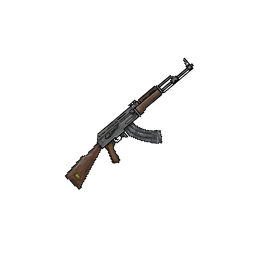
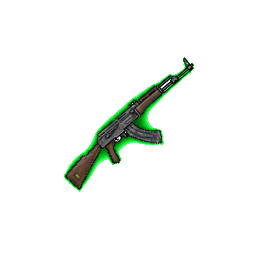
Edited rifle to make it more visible on the map. Add bullet sprite, working on getting bullets correctly implemented. Currently full of bugs, enjoying fixing this tomorrow, Beej.

Changed region(s): [[0.25, 0.2188, 0.7812, 0.75]]

diff --git a/Hotline_Scunthorpe/src/main.cpp b/Hotline_Scunthorpe/src/main.cpp
@@ -23,6 +23,8 @@ Texture enemyTurretATexture;
 Sprite enemyTurretASprite;
 Texture rifleTexture;
 Sprite rifleSprite;
+Texture bulletTexture;
+Sprite bulletSprite;
 
 RectangleShape startButton;
 RectangleShape optionsButton;
@@ -35,6 +37,10 @@ RectangleShape resFullscreenButton;
 RectangleShape optionsBackButton;
 RectangleShape rifleLocation;
 RectangleShape level1Exit;
+
+RectangleShape test;
+
+bool isShooting = false;
 
 // The different states of the game
 enum class GameStates { START, MENU, OPTIONS, LEVEL_1, LEVEL_2 };
@@ -77,8 +83,46 @@ void Load() {
 	if (!rifleTexture.loadFromFile("res/img/rifle.png")) {
 		throw std::invalid_argument("Loading error!");
 	}
+	if (!bulletTexture.loadFromFile("res/img/bullet.png")) {
+		throw std::invalid_argument("Loading error!");
+	}
 
 }
+
+class Bullet {
+public:
+	Bullet(Vector2f size) {
+		bullet.setSize(size);
+	}
+
+	void setTex() {
+		Texture bulletTexture;
+		if (!bulletTexture.loadFromFile("res/img/bullet.png")) {
+			throw std::invalid_argument("Loading error!");
+		}
+		bullet.setTexture(&bulletTexture);
+	}
+	void speed(Vector2f speed) {
+		bullet.move(speed);
+		std::cout << "\t speed x = " << speed.x << "\t speed y = " << speed.y;
+	}
+	void draw(RenderWindow &window) {
+		window.draw(bullet);
+	}
+	void setPos(Vector2f newPos) {
+		bullet.setPosition(newPos);
+	}
+	void setRot(float ang) {
+		bullet.setRotation(ang);
+	}
+	float getRot() {
+		return bullet.getRotation();
+	}
+private:
+	RectangleShape bullet;
+};
+
+std::vector<Bullet> bulletList;
 
 // Rescale all sprites when window resolution is changed
 void setStart() {
@@ -150,6 +194,10 @@ void setLevel1() {
 	rifleLocation.setPosition(0, 960);
 	rifleLocation.setFillColor(Color::Green);
 
+	//bulletSprite.setTexture(bulletTexture);
+	//bulletSprite.setPosition(-256, -256);
+	//bulletSprite.setOrigin((bulletTexture.getSize().x / 2), (bulletTexture.getSize().y / 2));
+
 	level1Exit.setSize(Vector2f(10, 240));
 	level1Exit.setPosition(1910, 240);
 }
@@ -167,6 +215,20 @@ void Update(Vector2f &mousePos, RenderWindow &window) {
   static sf::Clock clock;
   float dt = clock.restart().asSeconds();
   Vector2f move;
+	Vector2f playerPos = playerSprite.getPosition();
+	Vector2f turretPos = enemyTurretASprite.getPosition();
+	if (isShooting == true) {
+		Bullet newBullet(Vector2f(132, 9));
+		newBullet.setTex();
+		newBullet.setPos(playerPos);
+		newBullet.setRot(playerSprite.getRotation());
+		bulletList.push_back(newBullet);
+		isShooting = false;
+	}
+	for (int i = 0; i < bulletList.size(); i++) {
+		bulletList[i].draw(window);
+		bulletList[i].speed(Vector2f(2000 * dt * cos(bulletList[i].getRot() * (M_PI / 180)), 2000 * dt * sin(bulletList[i].getRot() * (M_PI / 180))));
+	}
   if (Keyboard::isKeyPressed(Keyboard::Left) || Keyboard::isKeyPressed(Keyboard::A)) {
     move.x--;
   }
@@ -180,11 +242,17 @@ void Update(Vector2f &mousePos, RenderWindow &window) {
 		move.y++;
 	}
 
-	Vector2f playerPos = playerSprite.getPosition();
-	Vector2f turretPos = enemyTurretASprite.getPosition();
 	float ang = atan2((playerPos.y - mousePos.y), (playerPos.x - mousePos.x)) * (180 / M_PI);
 	playerSprite.setRotation(ang+180);
   playerSprite.move(move*300.f*dt);
+
+	if (Mouse::isButtonPressed(Mouse::Left)) {
+		//bulletSprite.setPosition(playerPos.x, playerPos.y);
+		//bulletSprite.setRotation(playerSprite.getRotation());
+		isShooting = true;
+	}
+
+	bulletSprite.move(2000 * dt * cos(bulletSprite.getRotation()*(M_PI / 180)), 2000 * dt * sin(bulletSprite.getRotation()*(M_PI / 180)));
 
 	if (rifleLocation.getGlobalBounds().contains(playerPos)) {
 		playerSprite.setTexture(playerRifleTexture);
@@ -205,7 +273,7 @@ void Update(Vector2f &mousePos, RenderWindow &window) {
 }
 
 // Methods to render desired game states
-void RenderLevel1(RenderWindow &window) { window.draw(level1BackgroundSprite), window.draw(rifleSprite), window.draw(playerSprite), window.draw(enemyTurretASprite), window.draw(cursorSprite); }
+void RenderLevel1(RenderWindow &window) { window.draw(level1BackgroundSprite), window.draw(rifleSprite), /*window.draw(bulletSprite),*/ window.draw(playerSprite), window.draw(enemyTurretASprite), window.draw(cursorSprite); }
 void RenderLevel2(RenderWindow &window) { window.draw(level2BackgroundSprite), window.draw(playerSprite), window.draw(enemyTurretASprite), window.draw(cursorSprite); }
 void RenderStart(RenderWindow &window) { window.draw(startScreenSprite), window.draw(cursorSprite)/*, window.draw(startButton), window.draw(optionsButton), window.draw(quitButton)*/; }
 void RenderOptions(RenderWindow &window) { window.draw(optionsScreenSprite), window.draw(cursorSprite)/*, window.draw(res1080Button), window.draw(res900Button), window.draw(res720Button), window.draw(resWindowedButton), window.draw(resFullscreenButton), window.draw(optionsBackButton)*/; }
@@ -229,6 +297,9 @@ int main() {
     std::cerr << "Load error" << std::endl;
     return 1;
   }
+
+	/*std::vector<Bullet> bulletList;
+	bool isShooting = false;*/
 
 	// Game running while loop
   while (window.isOpen()) {
@@ -333,8 +404,18 @@ int main() {
 				window.clear();
 				mousePos = window.mapPixelToCoords(Mouse::getPosition(window));
 				playerPos = playerSprite.getPosition();
-				Update(Vector2f(mousePos.x, mousePos.y), window);
+				/*if (isShooting == true) {
+					Bullet newBullet(Vector2f(132, 9), bulletTexture);
+					newBullet.setPos(playerPos);
+					bulletList.push_back(newBullet);
+					isShooting = false;
+				}
+				for (int i = 0; i < bulletList.size(); i++) {
+					bulletList[i].draw(window);
+					bulletList[i].speed(1);
+				}*/
 				RenderLevel1(window);
+				Update(Vector2f(mousePos.x, mousePos.y), window);
 				window.display();
 				Event level1Event;
 				while (window.pollEvent(level1Event)) {
@@ -351,6 +432,9 @@ int main() {
 							lastGameState = gameState;
 						}
 					}
+					/*else if (level1Event.type == Event::MouseButtonPressed) {
+						isShooting = true;
+					}*/
 				}
 				break;
 			case GameStates::LEVEL_2:
